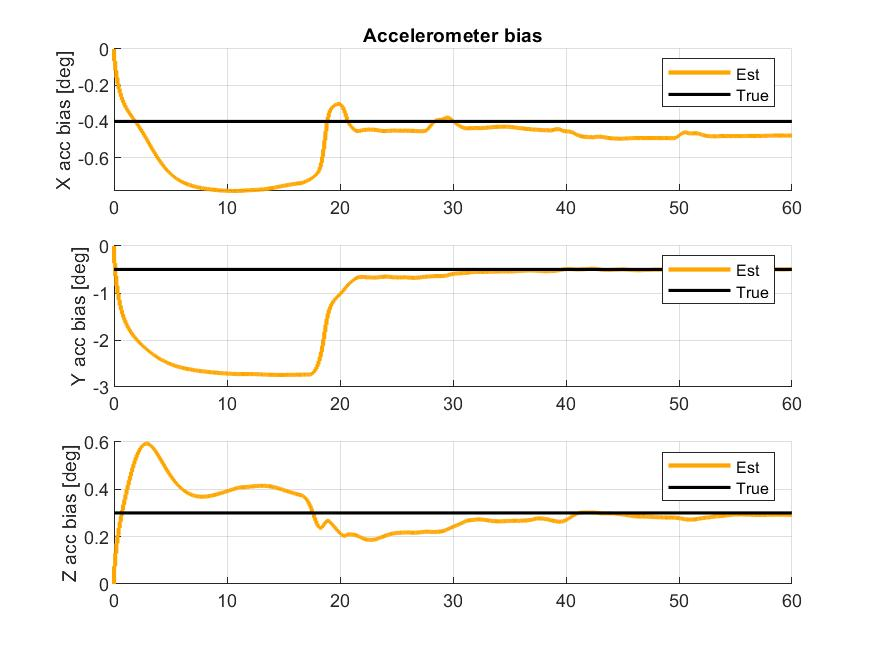
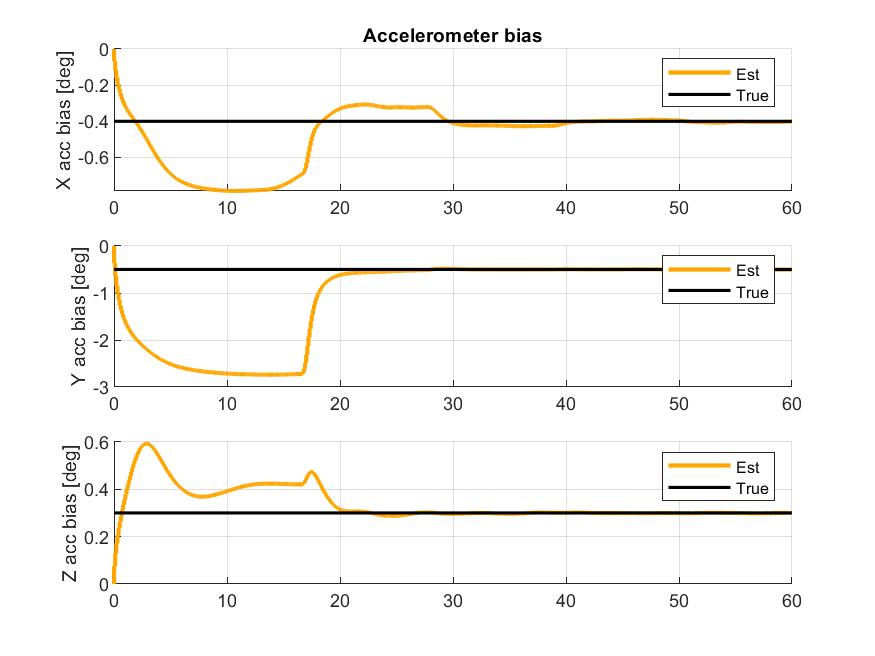
remove gravity error estimation and gss aiding at stand-still

diff --git a/ESKF/ErrorStateKalman_sola.m b/ESKF/ErrorStateKalman_sola.m
@@ -57,21 +57,27 @@ function [delta_x, E] = ErrorStateKalman_sola(race_started, r_b_1, r_b_2, r_b_3,
        delta_x = 0;
        
     else
-%             
-%           A = [  Z3    I3        Z3                                   Z3       Z3    Z3    % dp
-%                  Z3    Z3     -R_nb    -R_nb*Smtrx(f_b_imu - bacc_b_ins)       Z3    I3    % dv
-%                  Z3    Z3        Z3                                   Z3       Z3    Z3    % dbacc
-%                  Z3    Z3        Z3      -Smtrx(omega_b_imu - bars_b_ins)     -I3    Z3    % dtheta
-%                  Z3    Z3        Z3                                   Z3       Z3    Z3    % dbars
-%                  Z3    Z3        Z3                                   Z3       Z3    Z3] ; % dg
-            
-          A = [  Z3    I3            Z3                                       Z3           Z3  Z3   % dp
-                 Z3    Z3     -R_nb_hat    -R_nb_hat*Smtrx(f_b_imu - bacc_b_ins)           Z3  I3   % dv
-                 Z3    Z3  -(1/Tacc)*I3                                       Z3           Z3  Z3   % dbacc
-                 Z3    Z3            Z3         -Smtrx(omega_b_imu - bars_b_ins)          -I3  Z3   % dtheta
-                 Z3    Z3            Z3                                       Z3 -(1/Tars)*I3  Z3   % dbars
-                 Z3    Z3            Z3                                       Z3           Z3  Z3]; % dg
-             
+          A_dp = [Z3  I3  Z3  Z3  Z3  Z3];
+          A_dv = [Z3  Z3  -R_nb_hat  -R_nb_hat*Smtrx(f_b_imu - bacc_b_ins)  Z3  I3];
+          A_dbacc = [Z3  Z3  -(1/Tacc)*I3  Z3  Z3  Z3];
+          A_dtheta = [Z3  Z3  Z3  -Smtrx(omega_b_imu - bars_b_ins)  -I3  Z3];
+          A_dbars = [Z3  Z3  Z3  Z3  -(1/Tars)*I3  Z3];
+          A_dg = [Z3  Z3  Z3  Z3  Z3  Z3];
+          
+          if (~race_started)
+              % Do not estimate 
+              A_dv = [Z3  Z3  -R_nb_hat  -R_nb_hat*Smtrx(f_b_imu - bacc_b_ins)  Z3  Z3];
+          end
+          
+          A =  [A_dp ; A_dv ; A_dbacc ; A_dtheta ; A_dbars ; A_dg];
+          
+%           A = [  Z3    I3            Z3                                       Z3           Z3  Z3   % dp
+%                  Z3    Z3     -R_nb_hat    -R_nb_hat*Smtrx(f_b_imu - bacc_b_ins)           Z3  I3   % dv
+%                  Z3    Z3  -(1/Tacc)*I3                                       Z3           Z3  Z3   % dbacc
+%                  Z3    Z3            Z3         -Smtrx(omega_b_imu - bars_b_ins)          -I3  Z3   % dtheta
+%                  Z3    Z3            Z3                                       Z3 -(1/Tars)*I3  Z3   % dbars
+%                  Z3    Z3            Z3                                       Z3           Z3  Z3]; % dg
+%              
             
  
           E = [        Z3      Z3    Z3   Z3
@@ -85,6 +91,14 @@ function [delta_x, E] = ErrorStateKalman_sola(race_started, r_b_1, r_b_2, r_b_3,
 %           H = [ I3 Z3 Z3 Z3 Z3 Z3
 %                 I3 Z3 Z3 I3 Z3 Z3];
 
+          H_gnss1 = [I3  Z3  Z3  -R_nb_hat*Smtrx(r_b_1)  Z3  Z3];
+          
+          H_gnss2 = [I3  Z3  Z3  -R_nb_hat*Smtrx(r_b_2)  Z3  Z3];
+          
+          H_vec = [Z3  Z3  Z3  -R_nb_hat*Smtrx(r_b_2-r_b_1)  Z3  Z3];
+          
+          H_acc = [Z3  Z3  I3  -Smtrx(R_nb_hat' * g_n_nb)  Z3  -R_nb_hat'];
+
           % Ground Speed           
           H_gss_pos = [ 0, 0, 0];
           H_gss_vel = [(R_nb_hat(1,2)*(R_nb_hat(1,2)*v_n_ins(1) + R_nb_hat(2,2)*v_n_ins(2) + R_nb_hat(3,2)*v_n_ins(3) - bars_b_ins(2)*r_b_3(1) + bars_b_ins(1)*r_b_3(3) - omega_b_imu(1)*r_b_3(3) + omega_b_imu(3)*r_b_3(1)) + R_nb_hat(1,1)*(R_nb_hat(1,1)*v_n_ins(1) + R_nb_hat(1,3)*v_n_ins(2) + R_nb_hat(2,3)*v_n_ins(3) + bars_b_ins(2)*r_b_3(2) - bars_b_ins(2)*r_b_3(3) + omega_b_imu(2)*r_b_3(3) - omega_b_imu(3)*r_b_3(2)))/((R_nb_hat(1,2)*v_n_ins(1) + R_nb_hat(2,2)*v_n_ins(2) + R_nb_hat(3,2)*v_n_ins(3) - bars_b_ins(2)*r_b_3(1) + bars_b_ins(1)*r_b_3(3) - omega_b_imu(1)*r_b_3(3) + omega_b_imu(3)*r_b_3(1))^2 + (R_nb_hat(1,1)*v_n_ins(1) + R_nb_hat(1,3)*v_n_ins(2) + R_nb_hat(2,3)*v_n_ins(3) + bars_b_ins(2)*r_b_3(2) - bars_b_ins(2)*r_b_3(3) + omega_b_imu(2)*r_b_3(3) - omega_b_imu(3)*r_b_3(2))^2)^(1/2), (R_nb_hat(2,2)*(R_nb_hat(1,2)*v_n_ins(1) + R_nb_hat(2,2)*v_n_ins(2) + R_nb_hat(3,2)*v_n_ins(3) - bars_b_ins(2)*r_b_3(1) + bars_b_ins(1)*r_b_3(3) - omega_b_imu(1)*r_b_3(3) + omega_b_imu(3)*r_b_3(1)) + R_nb_hat(1,3)*(R_nb_hat(1,1)*v_n_ins(1) + R_nb_hat(1,3)*v_n_ins(2) + R_nb_hat(2,3)*v_n_ins(3) + bars_b_ins(2)*r_b_3(2) - bars_b_ins(2)*r_b_3(3) + omega_b_imu(2)*r_b_3(3) - omega_b_imu(3)*r_b_3(2)))/((R_nb_hat(1,2)*v_n_ins(1) + R_nb_hat(2,2)*v_n_ins(2) + R_nb_hat(3,2)*v_n_ins(3) - bars_b_ins(2)*r_b_3(1) + bars_b_ins(1)*r_b_3(3) - omega_b_imu(1)*r_b_3(3) + omega_b_imu(3)*r_b_3(1))^2 + (R_nb_hat(1,1)*v_n_ins(1) + R_nb_hat(1,3)*v_n_ins(2) + R_nb_hat(2,3)*v_n_ins(3) + bars_b_ins(2)*r_b_3(2) - bars_b_ins(2)*r_b_3(3) + omega_b_imu(2)*r_b_3(3) - omega_b_imu(3)*r_b_3(2))^2)^(1/2), (R_nb_hat(3,2)*(R_nb_hat(1,2)*v_n_ins(1) + R_nb_hat(2,2)*v_n_ins(2) + R_nb_hat(3,2)*v_n_ins(3) - bars_b_ins(2)*r_b_3(1) + bars_b_ins(1)*r_b_3(3) - omega_b_imu(1)*r_b_3(3) + omega_b_imu(3)*r_b_3(1)) + R_nb_hat(2,3)*(R_nb_hat(1,1)*v_n_ins(1) + R_nb_hat(1,3)*v_n_ins(2) + R_nb_hat(2,3)*v_n_ins(3) + bars_b_ins(2)*r_b_3(2) - bars_b_ins(2)*r_b_3(3) + omega_b_imu(2)*r_b_3(3) - omega_b_imu(3)*r_b_3(2)))/((R_nb_hat(1,2)*v_n_ins(1) + R_nb_hat(2,2)*v_n_ins(2) + R_nb_hat(3,2)*v_n_ins(3) - bars_b_ins(2)*r_b_3(1) + bars_b_ins(1)*r_b_3(3) - omega_b_imu(1)*r_b_3(3) + omega_b_imu(3)*r_b_3(1))^2 + (R_nb_hat(1,1)*v_n_ins(1) + R_nb_hat(1,3)*v_n_ins(2) + R_nb_hat(2,3)*v_n_ins(3) + bars_b_ins(2)*r_b_3(2) - bars_b_ins(2)*r_b_3(3) + omega_b_imu(2)*r_b_3(3) - omega_b_imu(3)*r_b_3(2))^2)^(1/2)];
@@ -93,7 +107,15 @@ function [delta_x, E] = ErrorStateKalman_sola(race_started, r_b_1, r_b_2, r_b_3,
           H_gss_bars = [(r_b_3(3)*(R_nb_hat(1,2)*v_n_ins(1) + R_nb_hat(2,2)*v_n_ins(2) + R_nb_hat(3,2)*v_n_ins(3) - bars_b_ins(2)*r_b_3(1) + bars_b_ins(1)*r_b_3(3) - omega_b_imu(1)*r_b_3(3) + omega_b_imu(3)*r_b_3(1)))/((R_nb_hat(1,2)*v_n_ins(1) + R_nb_hat(2,2)*v_n_ins(2) + R_nb_hat(3,2)*v_n_ins(3) - bars_b_ins(2)*r_b_3(1) + bars_b_ins(1)*r_b_3(3) - omega_b_imu(1)*r_b_3(3) + omega_b_imu(3)*r_b_3(1))^2 + (R_nb_hat(1,1)*v_n_ins(1) + R_nb_hat(1,3)*v_n_ins(2) + R_nb_hat(2,3)*v_n_ins(3) + bars_b_ins(2)*r_b_3(2) - bars_b_ins(2)*r_b_3(3) + omega_b_imu(2)*r_b_3(3) - omega_b_imu(3)*r_b_3(2))^2)^(1/2), -(r_b_3(3)*(R_nb_hat(1,1)*v_n_ins(1) + R_nb_hat(1,3)*v_n_ins(2) + R_nb_hat(2,3)*v_n_ins(3) + bars_b_ins(2)*r_b_3(2) - bars_b_ins(2)*r_b_3(3) + omega_b_imu(2)*r_b_3(3) - omega_b_imu(3)*r_b_3(2)))/((R_nb_hat(1,2)*v_n_ins(1) + R_nb_hat(2,2)*v_n_ins(2) + R_nb_hat(3,2)*v_n_ins(3) - bars_b_ins(2)*r_b_3(1) + bars_b_ins(1)*r_b_3(3) - omega_b_imu(1)*r_b_3(3) + omega_b_imu(3)*r_b_3(1))^2 + (R_nb_hat(1,1)*v_n_ins(1) + R_nb_hat(1,3)*v_n_ins(2) + R_nb_hat(2,3)*v_n_ins(3) + bars_b_ins(2)*r_b_3(2) - bars_b_ins(2)*r_b_3(3) + omega_b_imu(2)*r_b_3(3) - omega_b_imu(3)*r_b_3(2))^2)^(1/2), -(r_b_3(1)*(R_nb_hat(1,2)*v_n_ins(1) + R_nb_hat(2,2)*v_n_ins(2) + R_nb_hat(3,2)*v_n_ins(3) - bars_b_ins(2)*r_b_3(1) + bars_b_ins(1)*r_b_3(3) - omega_b_imu(1)*r_b_3(3) + omega_b_imu(3)*r_b_3(1)) - r_b_3(2)*(R_nb_hat(1,1)*v_n_ins(1) + R_nb_hat(1,3)*v_n_ins(2) + R_nb_hat(2,3)*v_n_ins(3) + bars_b_ins(2)*r_b_3(2) - bars_b_ins(2)*r_b_3(3) + omega_b_imu(2)*r_b_3(3) - omega_b_imu(3)*r_b_3(2)))/((R_nb_hat(1,2)*v_n_ins(1) + R_nb_hat(2,2)*v_n_ins(2) + R_nb_hat(3,2)*v_n_ins(3) - bars_b_ins(2)*r_b_3(1) + bars_b_ins(1)*r_b_3(3) - omega_b_imu(1)*r_b_3(3) + omega_b_imu(3)*r_b_3(1))^2 + (R_nb_hat(1,1)*v_n_ins(1) + R_nb_hat(1,3)*v_n_ins(2) + R_nb_hat(2,3)*v_n_ins(3) + bars_b_ins(2)*r_b_3(2) - bars_b_ins(2)*r_b_3(3) + omega_b_imu(2)*r_b_3(3) - omega_b_imu(3)*r_b_3(2))^2)^(1/2)]; 
           H_gss_g = [0, 0, 0];
           
+          H_gss = [H_gss_pos  H_gss_vel  H_gss_bacc  H_gss_att  H_gss_bars  H_gss_g];
           
+%           if (~race_started)
+%             H_gss = zeros(1,18);
+%           end
+          
+          H = [H_gnss1 ; H_gnss2 ; H_vec ; H_acc ; H_gss];
+          
+    
           
           H = [        I3         Z3          Z3        -R_nb_hat*Smtrx(r_b_1)          Z3          Z3   % gnss_1
                        I3         Z3          Z3        -R_nb_hat*Smtrx(r_b_2)          Z3          Z3   % gnss_2
@@ -102,12 +124,12 @@ function [delta_x, E] = ErrorStateKalman_sola(race_started, r_b_1, r_b_2, r_b_3,
                        Z3         Z3          Z3  -R_nb_hat*Smtrx(r_b_2-r_b_1)          Z3          Z3   % baseline
                        Z3         Z3          I3     -Smtrx(R_nb_hat' * g_n_nb)          Z3  -R_nb_hat']; % acc
                    
-          if (race_started == true)
-             H = H(1:end-3, :);
-             if (size(R,1) == 13)
-                R = R(1:end-3, 1:end-3);
-             end
-          end
+%           if (race_started == true)
+%              H = H(1:end-3, :);
+%              if (size(R,1) == 13)
+%                 R = R(1:end-3, 1:end-3);
+%              end
+%           end
               
                
 %          M = rref(obsv(A,H))  

diff --git a/ESKF/MESKF_sola.m b/ESKF/MESKF_sola.m
@@ -40,6 +40,7 @@ g_err_data = zeros(3,N);
 [p_n_nb, v_n_nb, q_nb, bacc_b_nb, bars_b_nb, f_b_imu, omega_b_imu,time, g_n_nb, v_abs] = SkidPadSim(simtime,f_samp,0);
 % [p_n_nb, v_n_nb, att_n_nb, f_b_imu, w_b_imu,time] = StandStillSim(simtime,f_samp,0);
 
+
 % dual gnss config
 r_b_1 = [0.5 0.5 0.5]';
 r_b_2 = [-0.5 -0.2 0.3]';
@@ -169,11 +170,11 @@ for k = 1:N
 %         delta_y = [(p_gnss_1 - p_hat_1) ; (p_gnss_2 - p_hat_2); (p_gnss_3 - p_hat_3); delta_theta]; 
 %         delta_y = [(p_gnss_1 - p_hat_1) ; (p_gnss_2 - p_hat_2); delta_theta]; 
 %         delta_y = [(p_gnss_1 - p_hat_1); (p_gnss_2 - p_hat_2)];
-        delta_y = [(p_gnss_1 - p_hat_1) ; (p_gnss_2 - p_hat_2) ; (v_gss - v_hat) ; (bl - bl_hat)];
+        delta_y = [(p_gnss_1 - p_hat_1) ; (p_gnss_2 - p_hat_2) ; (v_gss - v_hat) ; (bl - bl_hat); (f_imu - f_hat)];
         
-        if (race_started == false)
-            delta_y = [delta_y ; (f_imu - f_hat)];
-        end
+%         if (race_started == false)
+%             delta_y = [delta_y ; (f_imu - f_hat)];
+%         end
         
         % compute error state with ESKF
         [delta_x, E_prev] = ErrorStateKalman_sola(race_started, r_b_1, r_b_2,r_b_3, E_prev, delta_y, R_nb_ins, f_low, 0, f_b_imu(:,k), omega_b_imu(:,k), g_n_hat, x_ins);
